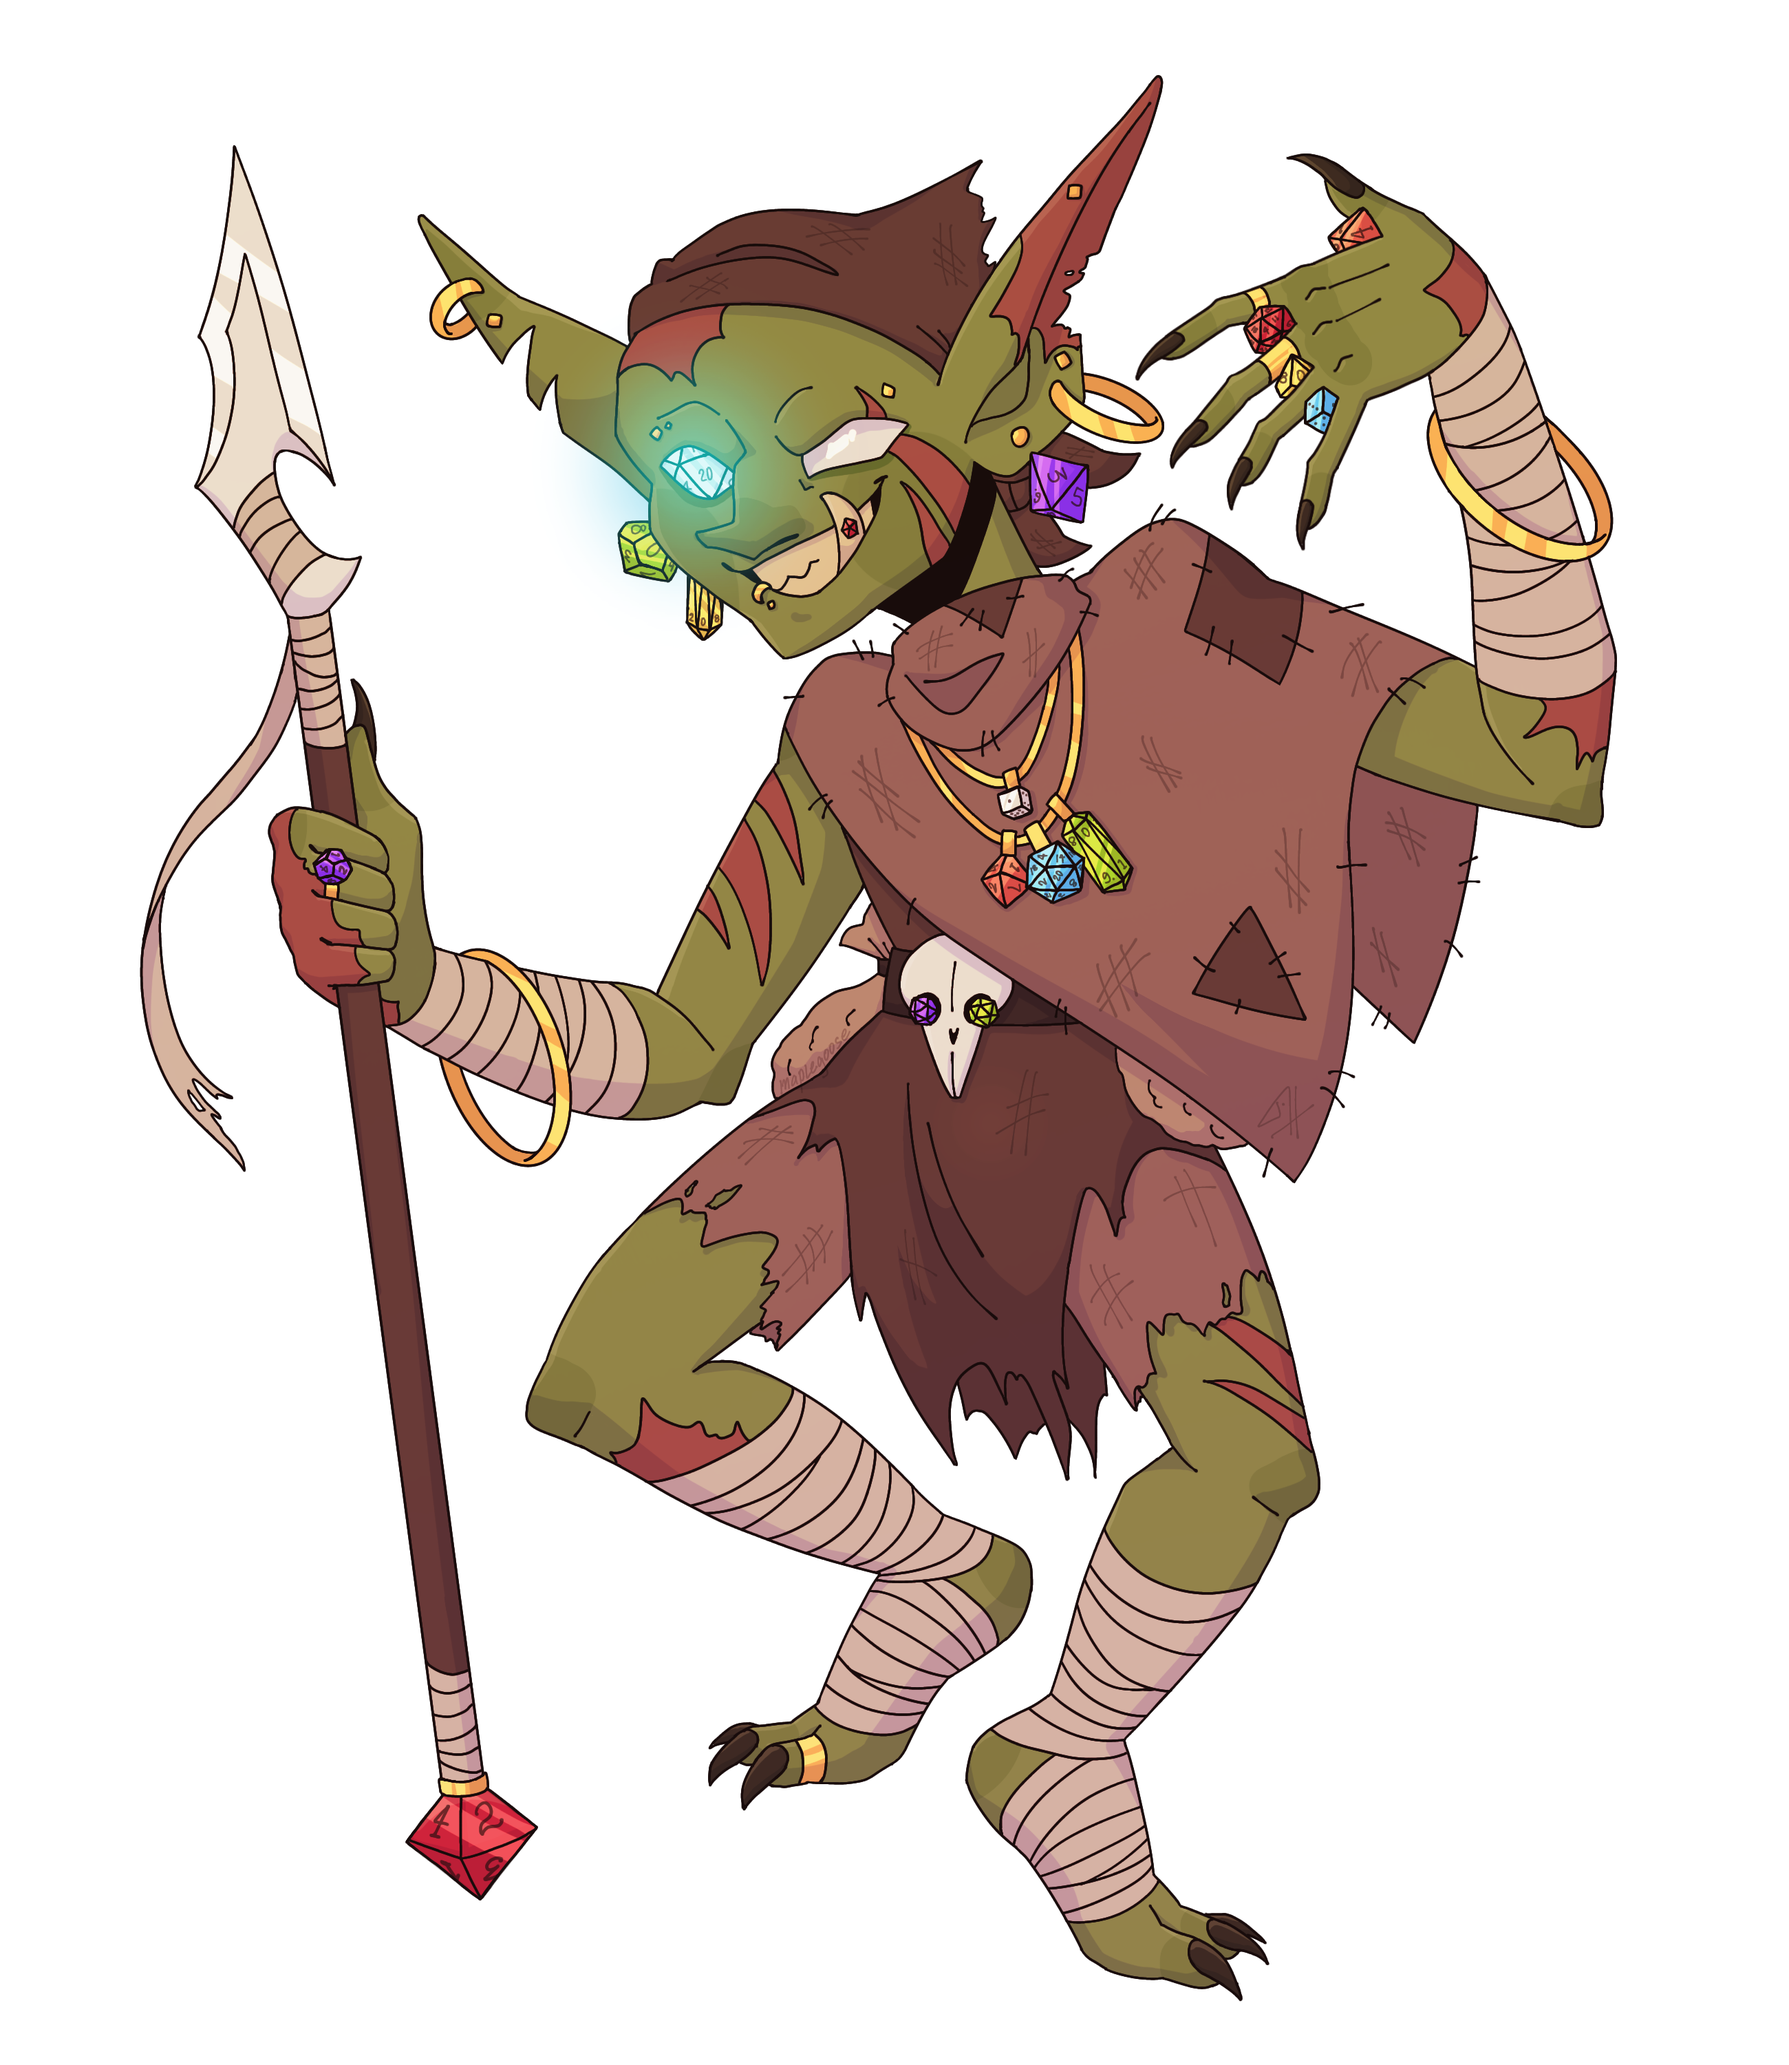
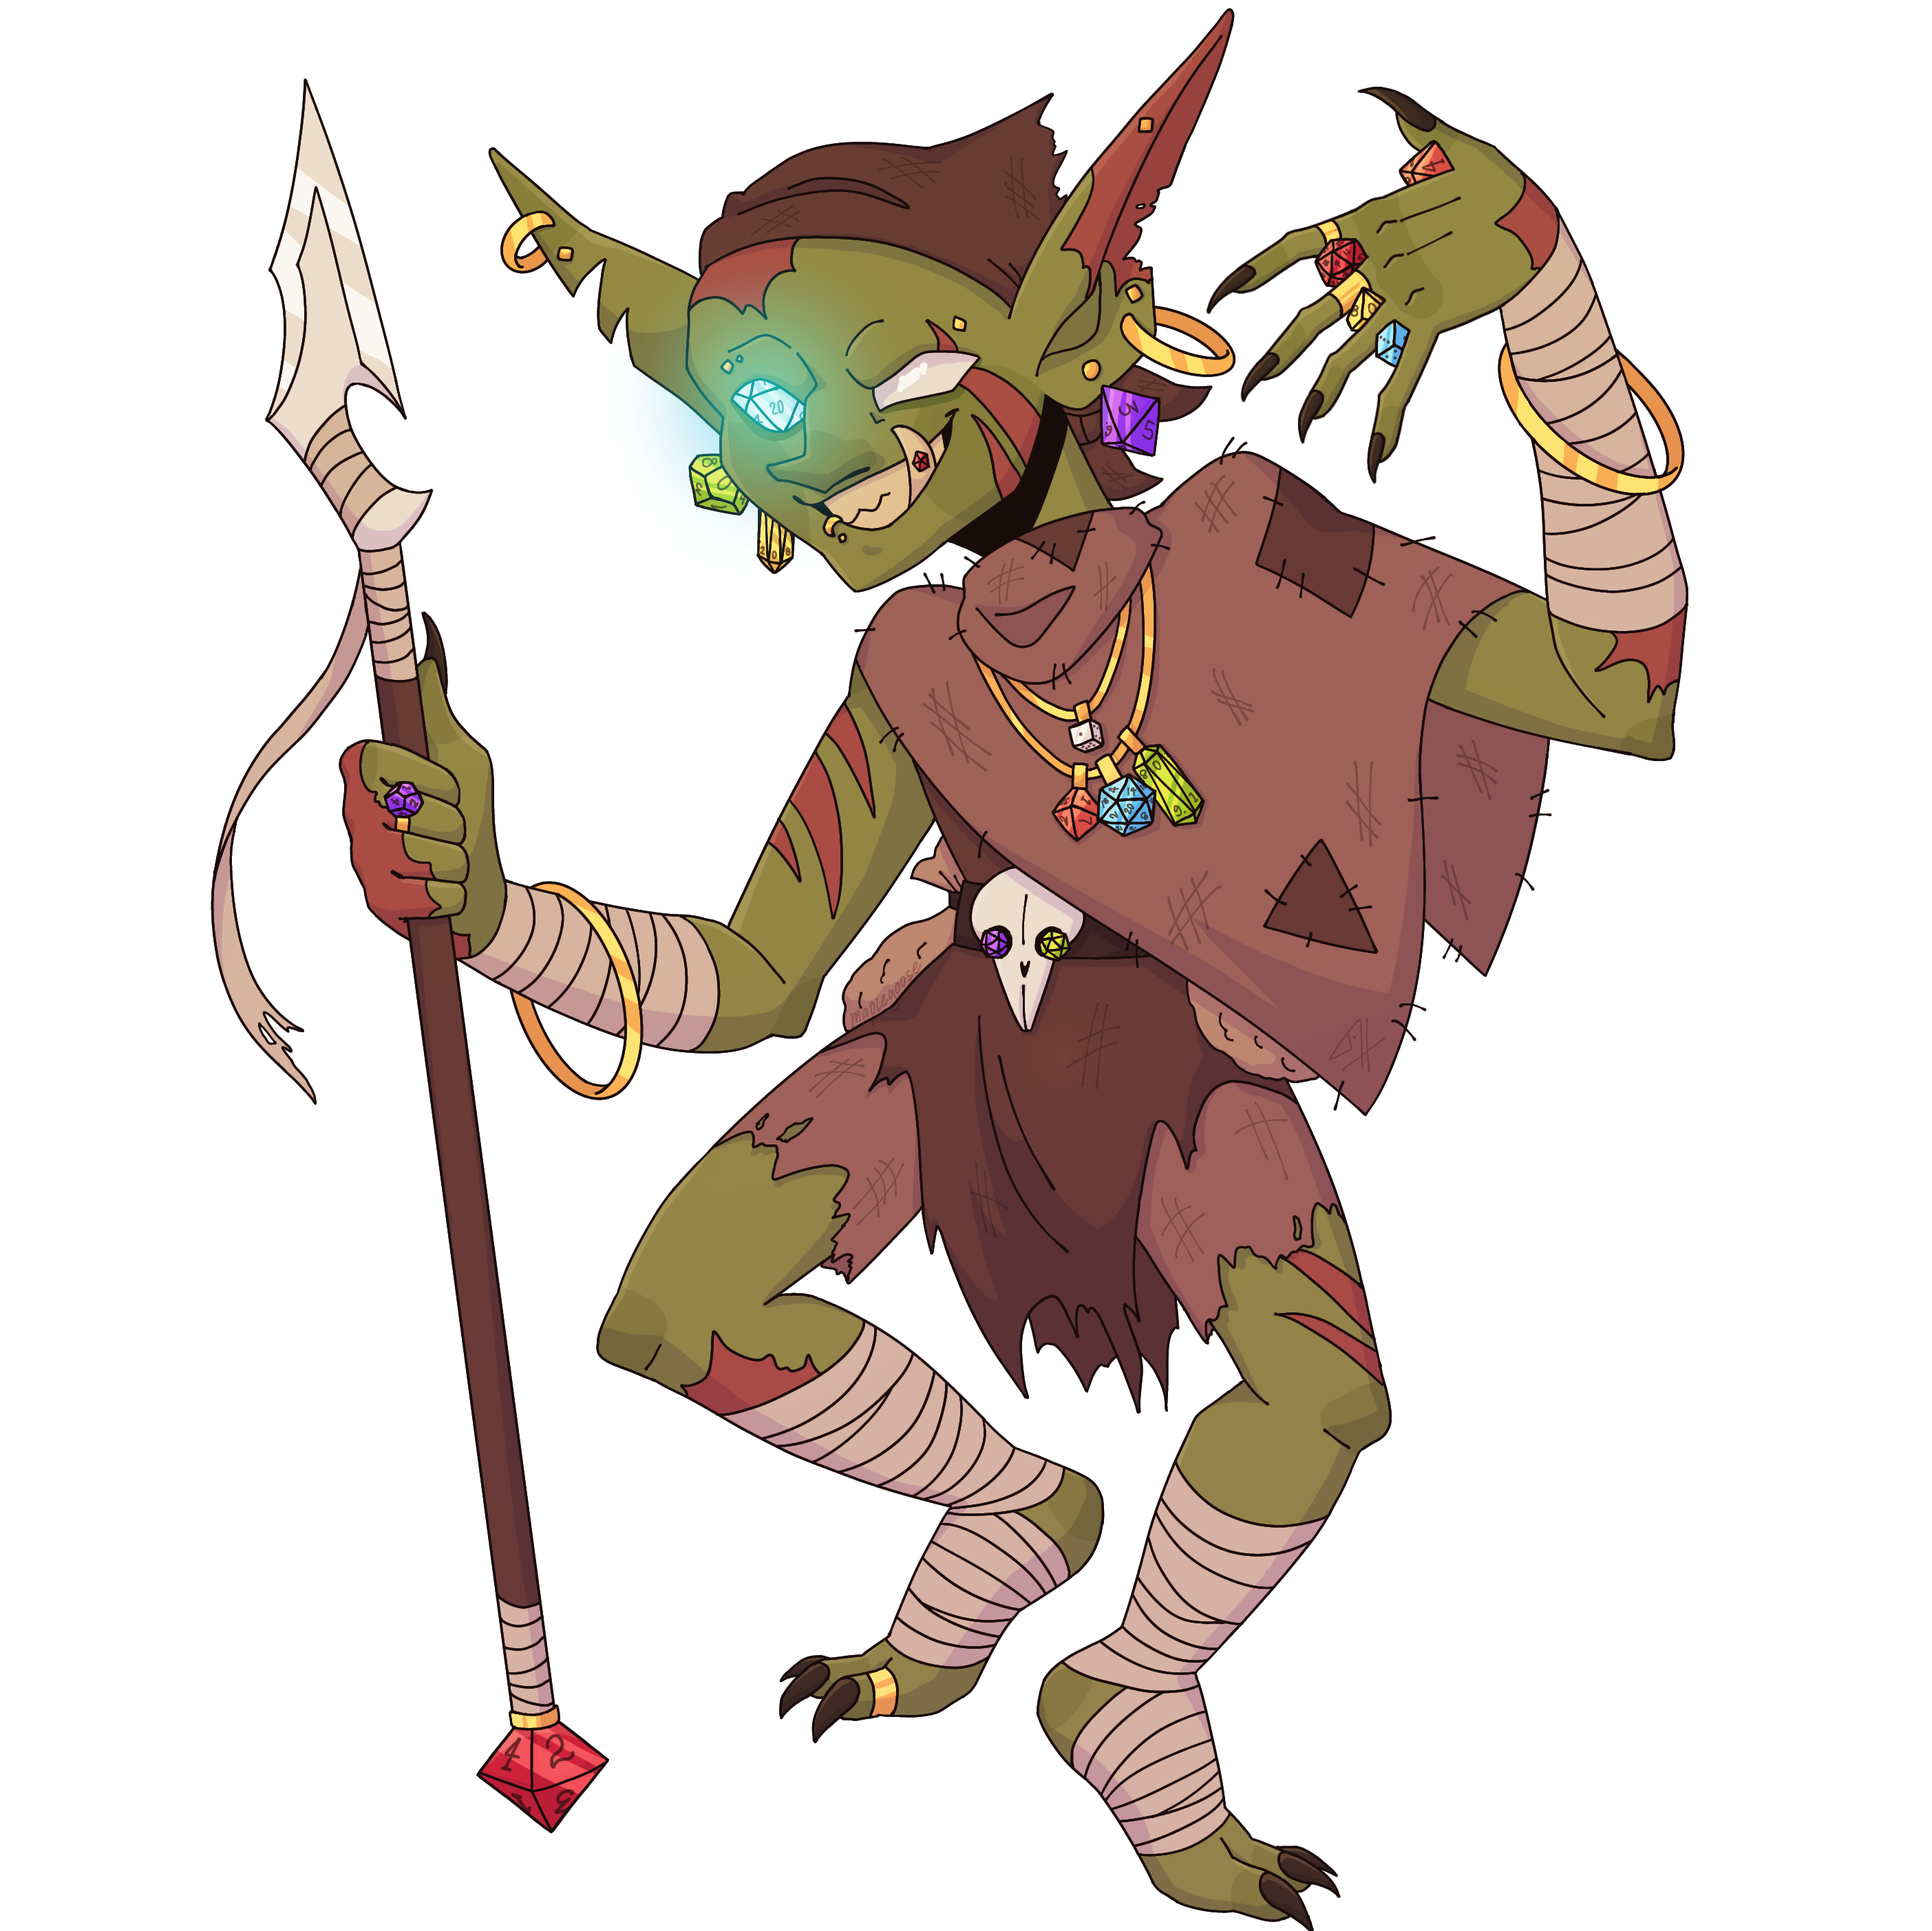
new boss art ! and squarified existing ones

Changed region(s): [[0.0623, 0.0, 0.9035, 1.0], [0.5296, 0.5891, 0.5608, 0.6201]]

diff --git a/src/sprites.py b/src/sprites.py
@@ -78,28 +78,88 @@ def load_sprites():
     inventory = SpriteSheet('assets/inventory/sprites.png')
     sprites['dice_bag'] = Sprite(inventory, (64, 16), (16, 16))
 
+    sprites['bug_girl'] = Sprite(
+        SpriteSheet('assets/boss/bug_girl.png'),
+        (0, 0),
+        (1515, 1515)
+    )
+
     sprites['dice_goblin'] = Sprite(
         SpriteSheet('assets/boss/dice_goblin.png'),
         (0, 0),
-        (2600, 3000)
-    )
-
-    sprites['tootle'] = Sprite(
-        SpriteSheet('assets/boss/tootle.png'),
-        (0, 0),
-        (2300, 2800)
-    )
-
-    sprites['vesphira'] = Sprite(
-        SpriteSheet('assets/boss/vesphira.png'),
-        (0, 0),
-        (3000, 3545)
+        (2807, 2806),
     )
 
     sprites['emiotter'] = Sprite(
         SpriteSheet('assets/boss/emiotter.png'),
         (0, 0),
-        (756, 756)
+        (4324, 4324)
+    )
+
+    sprites['goat_girl'] = Sprite(
+        SpriteSheet('assets/boss/goat_girl.png'),
+        (0, 0),
+        (1378, 1378)
+    )
+
+    sprites['necromancer'] = Sprite(
+        SpriteSheet('assets/boss/necromancer.png'),
+        (0, 0),
+        (1487, 1487)
+    )
+
+    sprites['slime_blue'] = Sprite(
+        SpriteSheet('assets/boss/slime_blue.png'),
+        (0, 0),
+        (1760, 1760)
+    )
+
+    sprites['slime_colon_three'] = Sprite(
+        SpriteSheet('assets/boss/slime_colon_three.png'),
+        (0, 0),
+        (1355, 1355)
+    )
+
+    sprites['slime_green'] = Sprite(
+        SpriteSheet('assets/boss/slime_green.png'),
+        (0, 0),
+        (1568, 1568)
+    )
+
+    sprites['slime_orange'] = Sprite(
+        SpriteSheet('assets/boss/slime_orange.png'),
+        (0, 0),
+        (1572, 1572)
+    )
+
+    sprites['slime_pink'] = Sprite(
+        SpriteSheet('assets/boss/slime_pink.png'),
+        (0, 0),
+        (1596, 1596)
+    )
+
+    sprites['slime_red'] = Sprite(
+        SpriteSheet('assets/boss/slime_red.png'),
+        (0, 0),
+        (1716, 1716)
+    )
+
+    sprites['slime_yellow'] = Sprite(
+        SpriteSheet('assets/boss/slime_yellow.png'),
+        (0, 0),
+        (1660, 1660)
+    )
+
+    sprites['tootle'] = Sprite(
+        SpriteSheet('assets/boss/tootle.png'),
+        (0, 0),
+        (2725, 2725)
+    )
+
+    sprites['vesphira'] = Sprite(
+        SpriteSheet('assets/boss/vesphira.png'),
+        (0, 0),
+        (3349, 3349)
     )
 
     sprites['button_attack'] = Sprite(

diff --git a/README.md b/README.md
@@ -7,8 +7,8 @@
 
 # Credits
 - Code by Gwen Killinger and Emily Heyboer
-- Dice Goblin art by [maplegoose](https://www.instagram.com/maplegoose_/)
-- Emiotter art by @undercover_artz
+- Dice Goblin, Tootle, Vesphira, and slime art by [maplegoose](https://www.instagram.com/maplegoose_/)
+- Emiotter, Goat Girl, Bug Girl, Necromancer, and :3 slime art by [@undercover_artz](http://discord.com/users/1368744067302952990) on discord
 - Dice art by [edilith](https://edilith.itch.io)
 - Dice box art by [kenny](https://kenney.nl/)
 - Dice bag art by [pbarry](https://pbarry.itch.io)
